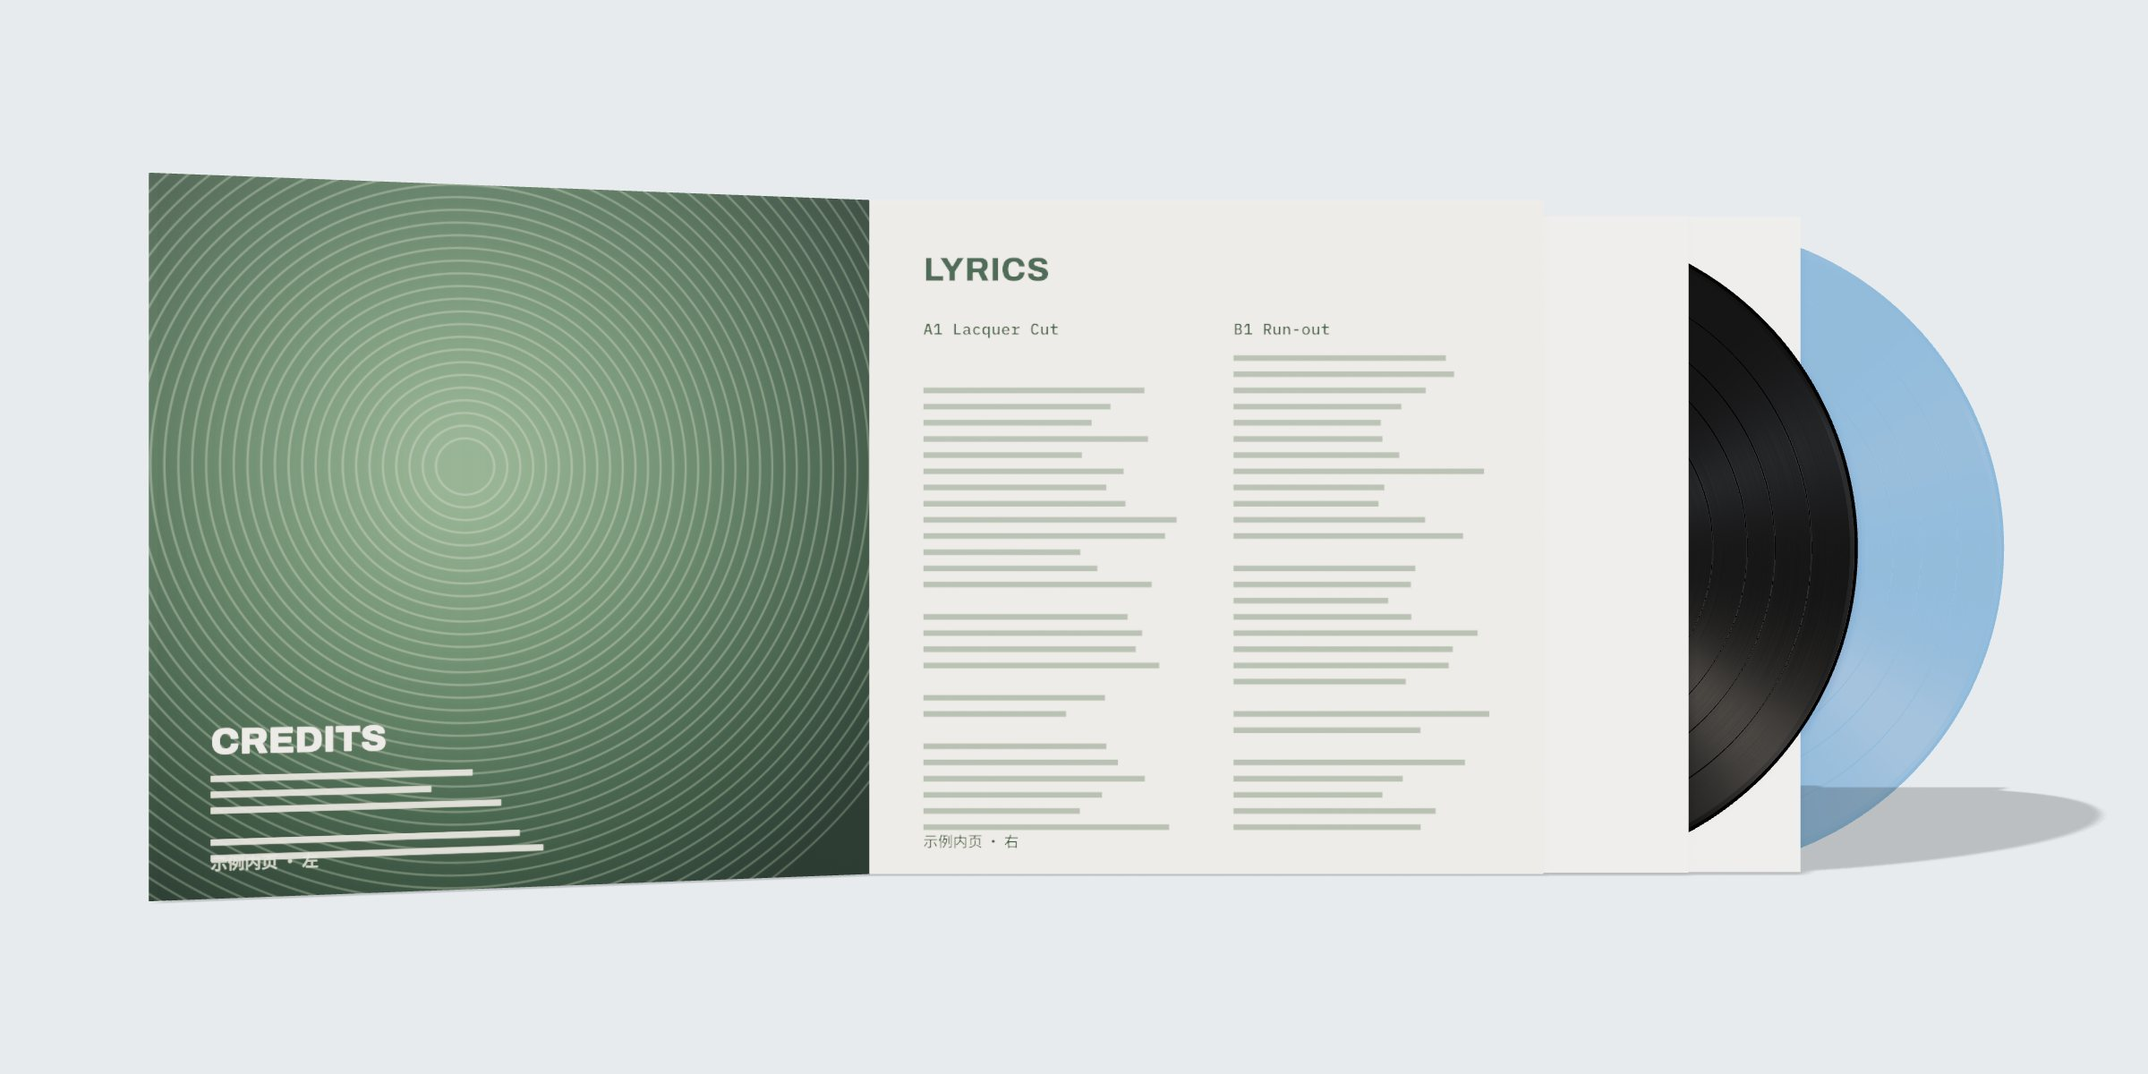
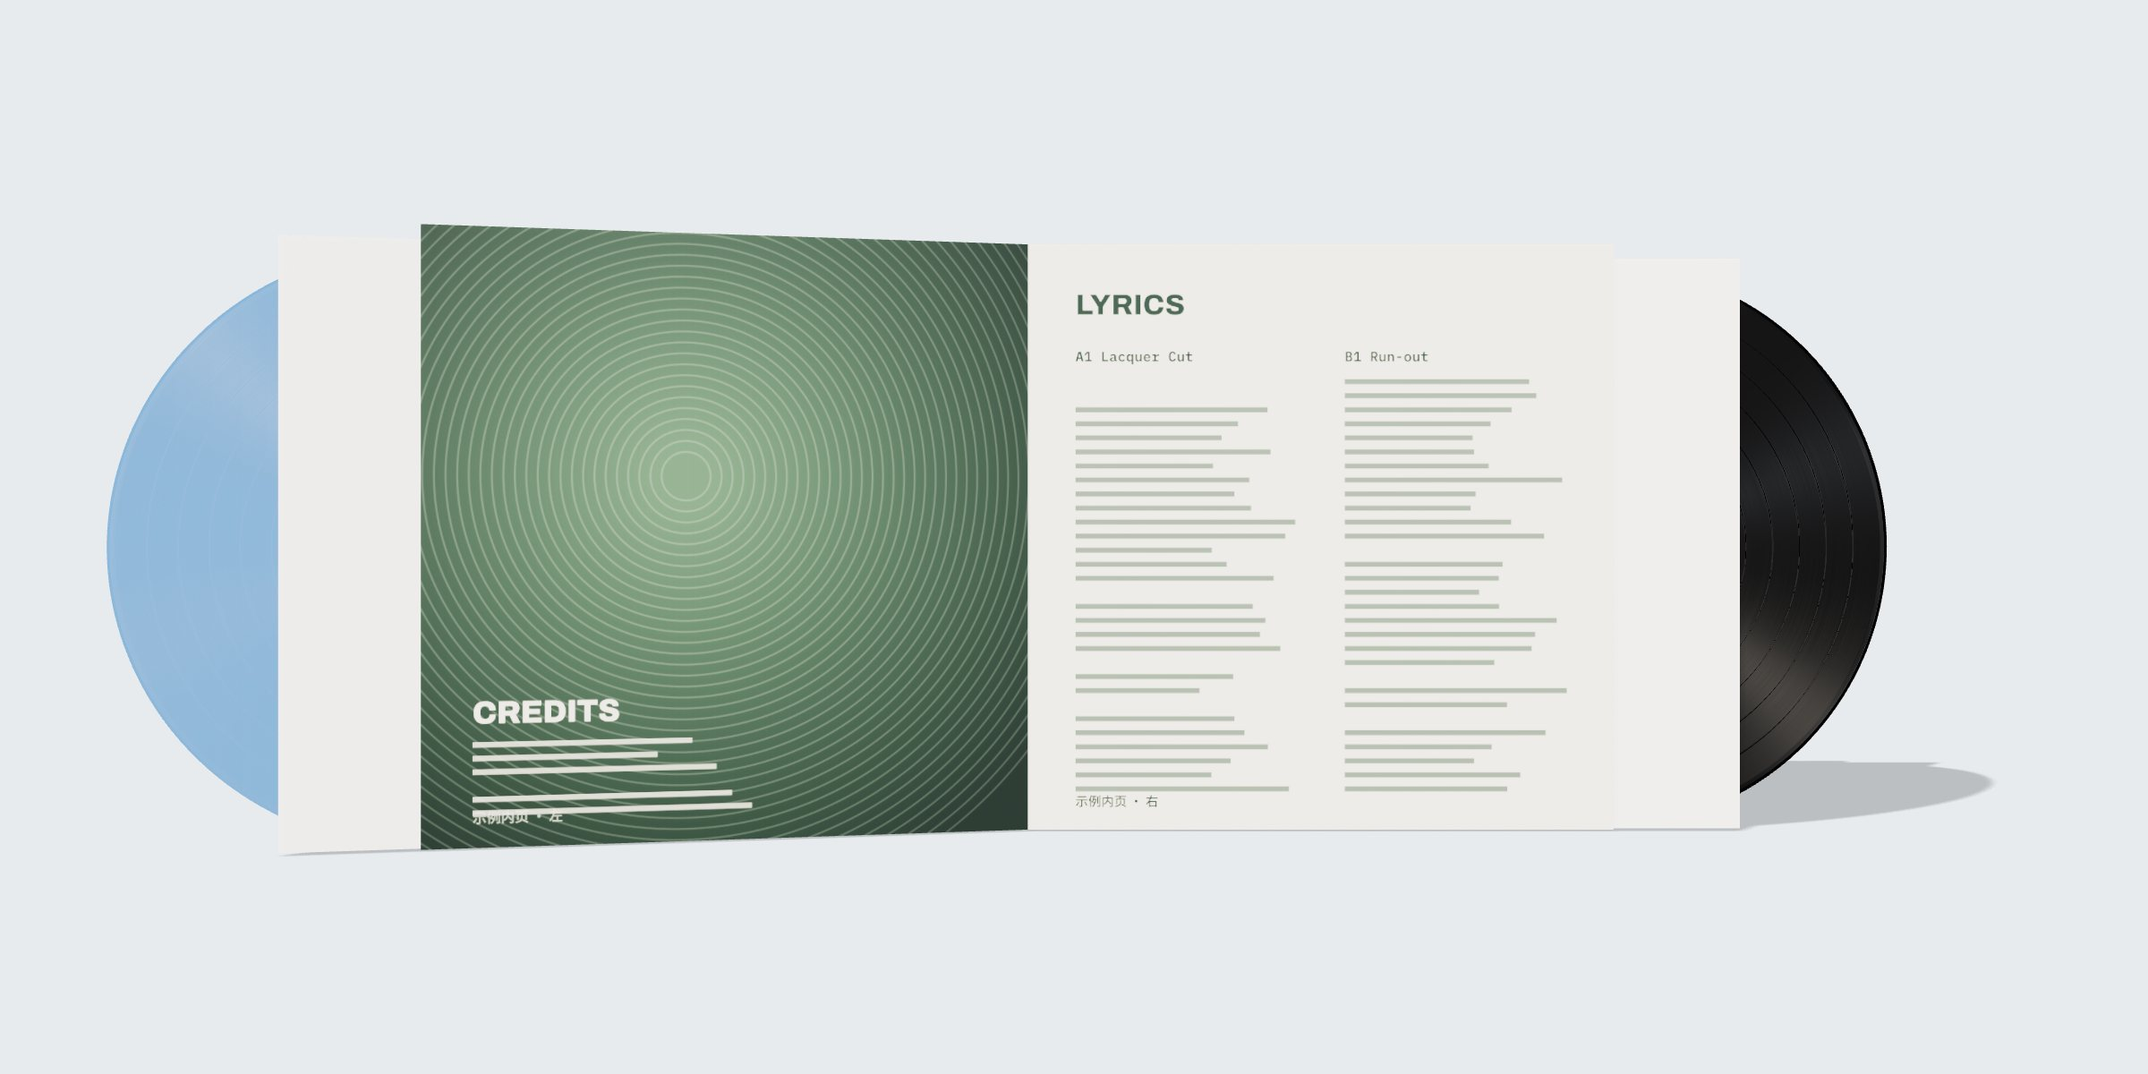
feat: give each gatefold panel its own record on 2LP
A gatefold 2LP now keeps one disc per panel: the front cover is a second
1LP-deep pocket hinged at the spine, and disc 2 rides in it, so it swings
with the cover and slides out to the left once the spread is open. Each
pocket is 1LP deep, the spine art runs across both hinge edges, and the
camera widens for disc 2 pulled from the open cover. Single jackets keep
both discs stacked in one pocket.

The 2LP example pulls disc 1 further so both discs show when closed, and
the README gatefold image is rebuilt with one disc on each side.

Closes #5

diff --git a/index.html b/index.html
@@ -317,7 +317,7 @@ input[type="color"]{width:34px;height:26px;padding:0;border:1px solid var(--line
             </div>
 
             <div class="disc" id="lp2-sub" hidden>
-              <h3>第 2 张 <small>C / D 面 · 放在第 1 张后面</small></h3>
+              <h3>第 2 张 <small id="lp2-where">C / D 面 · 放在第 1 张后面</small></h3>
               <div class="tiles two">
                 <label class="tile" data-slot="labelC"><span class="thumb"><span class="tag">示例</span></span><input id="up-labelC" type="file" accept="image/*" aria-label="上传 C 面标签">C 面标签</label>
                 <label class="tile" data-slot="labelD"><span class="thumb"><span class="tag">示例</span></span><input id="up-labelD" type="file" accept="image/*" aria-label="上传 D 面标签">D 面标签</label>
@@ -601,7 +601,11 @@ const state = {
   videoFormat:'mp4'   // panel only; the CLI takes the format from the output file name
 };
 const isGate=()=>state.jacketType==='gatefold';
-const frontZ=()=>isGate()?J.d/2+J.board:J.d/2;          // outer face of the front cover
+// A gatefold 2LP keeps one disc in each panel: the front cover is a second 1LP pocket, open at its free edge.
+const isSplit=()=>isGate()&&state.lpCount===2;
+const pocketDepth=()=>POCKET_D[isSplit()?1:state.lpCount];
+const coverDepth=()=>isSplit()?POCKET_D[1]:J.board;
+const frontZ=()=>isGate()?J.d/2+coverDepth():J.d/2;      // outer face of the front cover
 const jacketDepth=()=>frontZ()+J.d/2;
 const gateOpened=()=>isGate()&&state.gateOpen>.5;
 const specText=()=>`${isGate()?tr('双开','Gatefold'):tr('单开','Single')} · ${state.lpCount===2?'2LP':tr('单 LP','1LP')} · ${tr('书脊','Spine')} ${+(jacketDepth()*10).toFixed(1)} mm`;
@@ -1019,14 +1023,30 @@ function buildJacket(){
   const front=pocketFront=mesh(new THREE.BoxGeometry(w,h,t),[stock,stock,stock,stock,frontMat,stockInner]);front.position.z=d/2-t/2;
   const back=mesh(new THREE.BoxGeometry(w,h,t),[stock,stock,stock,stock,stockInner,backMat]);back.position.z=-d/2+t/2;
   const spine=mesh(new THREE.BoxGeometry(t,h,d-2*t),[stockInner,spineMat,stock,stock,stock,stock]);spine.position.x=-w/2+t/2;
+  // A split gatefold's spine art runs on across the cover's hinge edge: this half also covers the front
+  // board's edge (a hair proud of it) so the two halves meet without a seam.
+  if(isSplit()){const c=coverDepth();spine.geometry=spanU(new THREE.BoxGeometry(t,h,d-t),0,(d-t)/(d+c-2*t));spine.position.set(-w/2+t/2-.002,0,t/2)}
   jacket.add(front,back,spine);
   for(const s of[-1,1]){const flap=mesh(new THREE.BoxGeometry(w-t,t,d-2*t),stock);flap.position.set(t/2,s*(h/2-t/2),0);jacket.add(flap)}
-  coverPivot.position.z=d/2;
+  buildCover();
 }
+// Stretch the -x face's u (the spine side, back to front) over [u0, u1] of the texture.
+function spanU(geo,u0,u1){const uv=geo.attributes.uv;for(let i=4;i<8;i++)uv.setX(i,u0+uv.getX(i)*(u1-u0));return geo}
 // Gatefold: a separate front cover board hinged on the spine edge, laid over the pocket. Its inside is
 // the left page of the spread; the pocket's front face becomes the right page.
+// On a split 2LP the cover is a pocket of its own: closed at the hinge, open at the free edge, and disc 2
+// rides in it (pose() parents that sleeve set to the pivot), so it swings with the cover and slides out left.
 const coverPivot=new THREE.Group();coverPivot.position.set(-J.w/2,0,J.d/2);scene.add(coverPivot);
-const coverMesh=mesh(new THREE.BoxGeometry(J.w,J.h,J.board),[stock,stock,stock,stock,frontMat,innerLeftMat]);coverMesh.position.set(J.w/2,0,J.board/2);coverPivot.add(coverMesh);
+let coverFront;
+function buildCover(){
+  for(const c of[...coverPivot.children])if(c.isMesh){c.geometry.dispose();coverPivot.remove(c)}
+  const {w,h,board:t}=J,c=coverDepth();coverPivot.position.z=J.d/2;
+  if(!isSplit()){coverFront=mesh(new THREE.BoxGeometry(w,h,t),[stock,stock,stock,stock,frontMat,innerLeftMat]);coverFront.position.set(w/2,0,t/2);coverPivot.add(coverFront);return}
+  coverFront=mesh(new THREE.BoxGeometry(w,h,t),[stock,stock,stock,stock,frontMat,stockInner]);coverFront.position.set(w/2,0,c-t/2);
+  const inner=mesh(new THREE.BoxGeometry(w,h,t),[stock,stock,stock,stock,stockInner,innerLeftMat]);inner.position.set(w/2,0,t/2);
+  const hinge=mesh(spanU(new THREE.BoxGeometry(t,h,c-t),(J.d-t)/(J.d+c-2*t),1),[stockInner,spineMat,stock,stock,stock,stock]);hinge.position.set(t/2-.002,0,(c-t)/2);
+  coverPivot.add(coverFront,inner,hinge);
+  for(const s of[-1,1]){const flap=mesh(new THREE.BoxGeometry(w-t,t,c-2*t),stock);flap.position.set(w/2+t/2,s*(h/2-t/2),c/2);coverPivot.add(flap)}}
 buildJacket();
 
 // Insert: one double-sided printed sheet.
@@ -1166,7 +1186,7 @@ function numTexture(){
 function placeNumber(){
   const p=state.numPlace,eps=.004;numAnchor.removeFromParent();numAnchor.rotation.set(0,0,0);numAnchor.scale.setScalar(1);
   if(p==='back'){scene.add(numAnchor);numAnchor.position.set(0,0,-J.d/2-eps);numAnchor.rotation.y=Math.PI}
-  else if(p==='front'){if(isGate()){coverMesh.add(numAnchor);numAnchor.position.set(0,0,J.board/2+eps)}else{scene.add(numAnchor);numAnchor.position.set(0,0,J.d/2+eps)}}
+  else if(p==='front'){if(isGate()){coverFront.add(numAnchor);numAnchor.position.set(0,0,J.board/2+eps)}else{scene.add(numAnchor);numAnchor.position.set(0,0,J.d/2+eps)}}
   else if(p==='obi'){const {F,eps:oe}=obiLayout();obi.add(numAnchor);numAnchor.position.set(-J.w/2+F/2,0,frontZ()+oe+eps)}
   else{sticker.add(numAnchor);const k=1/state.stickerSize;numAnchor.scale.set(k,k,1);numAnchor.position.set(0,0,.03)}
   numAnchor.visible=state.numOn;
@@ -1177,23 +1197,28 @@ function pose(){
   const gate=isGate(),opened=gateOpened();
   pocketFront.material[4]=gate?innerRightMat:frontMat;
   coverPivot.visible=gate;coverPivot.rotation.y=-THREE.MathUtils.degToRad(state.gateOpen);
-  // 1LP rides at the pocket centre; 2LP stacks two sleeve sets front/back, insert behind both.
-  const two=state.lpCount===2,zc=two?.1:0;
+  // 1LP rides at the pocket centre; 2LP stacks two sleeve sets front/back, insert behind both, unless the
+  // gatefold splits them: then each pocket holds one set and disc 2 sits in the cover, turned to face the
+  // spread when it is open.
+  const two=state.lpCount===2,split=isSplit(),zc=two&&!split?.1:0;
   // Anything still partly inside its container rests on that container's floor; only once it has fully
   // cleared the mouth does it settle onto the ground. This keeps a disc from poking out under its sleeve.
   const jacketFloor=-(J.h/2-J.board),settle=clear=>THREE.MathUtils.smoothstep(clear,0,1.5);
-  const placeSet=(sl,rec,sX,rX,z,on)=>{
+  // host is the container's frame and ox the pocket centre in it; x runs from the pocket centre to its mouth.
+  const placeSet=(sl,rec,sX,rX,z,on,host=scene,ox=0,flip=0)=>{
+    for(const o of[sl,rec])if(o.parent!==host)host.add(o);
     const S=SLV.s,x=sX*24,sy=THREE.MathUtils.lerp(jacketFloor+S/2,GROUND_Y+S/2,settle(x-S/2-J.w/2));
-    sl.visible=on&&state.sleeveOn;sl.position.set(x,sy,z);rec.visible=on;
+    sl.visible=on&&state.sleeveOn;sl.position.set(ox+x,sy,z);sl.rotation.y=flip;rec.visible=on;
     const rx=x+rX*27,floor=state.sleeveOn?sy-S/2+.04:jacketFloor,mouth=state.sleeveOn?x+S/2:J.w/2;
-    rec.position.set(rx,THREE.MathUtils.lerp(floor+LP.r,GROUND_Y+LP.r,settle(rx-LP.r-mouth)),z);
-    rec.rotation.z=THREE.MathUtils.degToRad(state.recordRot)};
+    rec.position.set(ox+rx,THREE.MathUtils.lerp(floor+LP.r,GROUND_Y+LP.r,settle(rx-LP.r-mouth)),z);
+    rec.rotation.set(0,flip,THREE.MathUtils.degToRad(state.recordRot))};
   placeSet(sleeve,record,state.sleeveX,state.recordX,zc,true);
-  placeSet(sleeve2,record2,state.sleeve2X,state.record2X,-zc,two);
+  if(split)placeSet(sleeve2,record2,state.sleeve2X,state.record2X,coverDepth()/2,true,coverPivot,J.w/2,Math.PI);
+  else placeSet(sleeve2,record2,state.sleeve2X,state.record2X,-zc,two);
   const ix=state.insertX*25;
-  insert.visible=state.insertOn;insert.position.set(ix,THREE.MathUtils.lerp(jacketFloor+INS.s/2,GROUND_Y+INS.s/2,settle(ix-INS.s/2-J.w/2)),two?-.23:INS.z);
+  insert.visible=state.insertOn;insert.position.set(ix,THREE.MathUtils.lerp(jacketFloor+INS.s/2,GROUND_Y+INS.s/2,settle(ix-INS.s/2-J.w/2)),two&&!split?-.23:INS.z);
   const mouthOpen=state.sleeveX>.005||state.recordX>.005||(state.insertOn&&state.insertX>.005)||(two&&(state.sleeve2X>.005||state.record2X>.005));
-  const wrapZ=gate?J.board/2:0,wrapFront=wrapZ+(jacketDepth()+WRAP.extra)/2;
+  const wrapZ=gate?coverDepth()/2:0,wrapFront=wrapZ+(jacketDepth()+WRAP.extra)/2;
   wrap.visible=state.wrapOn&&!opened;wrap.position.z=wrapZ;wrapMouthMat.visible=!mouthOpen;
   wrapStrength.value=state.gloss;wrapMat.normalScale.setScalar(.35*state.wrinkle);wrapMouthMat.normalScale.setScalar(.35*state.wrinkle);
   obi.visible=state.obiOn&&!opened;
@@ -1203,9 +1228,12 @@ function pose(){
   placeNumber();
 }
 function applyLpCount(){
-  J.d=POCKET_D[state.lpCount];$('lp2-sub').hidden=state.lpCount!==2;buildJacket();applyJacketType();
+  $('lp2-sub').hidden=state.lpCount!==2;applyJacketType();
 }
+const lp2Where=()=>{$('lp2-where').textContent=isSplit()?tr('C / D 面 · 装在左扇','Sides C / D · in the left panel'):tr('C / D 面 · 放在第 1 张后面','Sides C / D · behind disc 1')};
 function applyJacketType(){
+  J.d=pocketDepth();buildJacket();
+  lp2Where();
   const gate=isGate();$('gate-sub').hidden=!gate;$('jacket-spec').textContent=specText();
   buildWrap(state.wrinkle);buildObi();pose();if(!userMoved)setView(state.view);
 }
@@ -1213,9 +1241,13 @@ function applyJacketType(){
 // ---------- Views ----------
 // Each view frames a box of the given size (scene units) so it fits any stage aspect ratio.
 const VIEWS={quarter:{t:[9,-.5,0],dir:[-.36,.1,1],fit:[62,35]},front:{t:[9,0,0],dir:[0,0,1],fit:[64,35]},side:{t:[5,-1,0],dir:[-.86,.12,.5],fit:[56,36]}};
+// How far the cover's contents reach from the hinge: the board, or disc 2 and its sleeve pulled past it.
+function coverReach(){if(!isSplit())return J.w;const x=state.sleeve2X*24,rx=x+state.record2X*27;
+  return Math.max(J.w,J.w/2+Math.max(state.sleeveOn?x+SLV.s/2:0,rx+LP.r))}
 function setView(name){userMoved=false;const v=VIEWS[name],half=Math.tan(THREE.MathUtils.degToRad(camera.fov/2));
-  // An opening gatefold cover reaches left of the jacket; widen the frame by that reach.
-  const reach=isGate()?Math.max(0,-J.w*Math.cos(THREE.MathUtils.degToRad(state.gateOpen))):0,t=[v.t[0]-reach/2,v.t[1],v.t[2]];
+  // An opening gatefold cover reaches left of the jacket, and on a split 2LP so does disc 2 pulled from it;
+  // widen the frame by that reach.
+  const reach=isGate()?Math.max(0,-coverReach()*Math.cos(THREE.MathUtils.degToRad(state.gateOpen))):0,t=[v.t[0]-reach/2,v.t[1],v.t[2]];
   const dist=Math.max(v.fit[1]/(2*half),(v.fit[0]+reach)/(2*half*camera.aspect)),dir=new THREE.Vector3(...v.dir).normalize().multiplyScalar(dist);
   controls.target.set(...t);camera.position.set(t[0]+dir.x,t[1]+dir.y,t[2]+dir.z);controls.update();state.view=name;
   for(const b of document.querySelectorAll('[data-view]'))b.setAttribute('aria-pressed',b.dataset.view===name);
@@ -1830,7 +1862,7 @@ const SPEC_FIELDS=[
   enumF('jacket.type','jacketType',['single','gatefold'],'封套类型：single 单开，gatefold 双开'),
   enumF('jacket.finish','finish',['matte','satin','gloss'],'纸张工艺：matte 哑光，satin 缎面，gloss 亮面'),
   numF('jacket.gateOpen','gateOpen',0,180,1,'双开封面打开角度（度）。大于 0 时塑封、贴纸、Obi 视为已拆除，不显示'),
-  numF('records.count','lpCount',1,2,1,'唱片数量：1 为单 LP，2 为 2LP（封套自动加厚）',true),
+  numF('records.count','lpCount',1,2,1,'唱片数量：1 为单 LP，2 为 2LP。单开时两张叠在同一个口袋里（封套自动加厚）；双开时两扇各装一张，第 2 张在左扇（封面）里，打开后向左抽出',true),
   numF('records.labelRotation','recordRot',-180,180,1,'唱片标签旋转角度（度），两张共用'),
   boolF('records.sleeve.on','sleeveOn','是否显示内袋'),
   colorF('records.sleeve.color','sleeveColor','内袋纸色，未提供 images.sleeve 时生效'),
@@ -1838,7 +1870,7 @@ const SPEC_FIELDS=[
     enumF(`records.disc${i}.vinyl`,`vinyl${s}`,['black','color'],`第 ${i} 张胶色：black 纯黑胶（不叠纹路、不透明）；color 彩胶，用 color 和 transparency，可再加 pattern。旧值 clear 仍可用，等于 color + transparency 38${note}`),
     numF(`records.disc${i}.transparency`,`vinyl${s}Clear`,0,80,.01,`第 ${i} 张彩胶的透明度（%），0 为不透明。有纹路时只有底色变透明，纹路本身不透明；black 不使用${note}`),
     colorF(`records.disc${i}.color`,`vinyl${s}Color`,`第 ${i} 张彩胶颜色；有纹路时是底色（分色类的第一块）${note}`),
-    numF(`records.disc${i}.sleeveOut`,`sleeve${s}X`,0,100,.01,`第 ${i} 张内袋连同唱片从封套开口抽出的比例（%）${note}`),
+    numF(`records.disc${i}.sleeveOut`,`sleeve${s}X`,0,100,.01,`第 ${i} 张内袋连同唱片从封套开口抽出的比例（%）${note}${i===2?'。双开时从左扇的开口抽出：合上时朝右，打开后朝左':''}`),
     numF(`records.disc${i}.recordOut`,`record${s}X`,0,100,.01,`第 ${i} 张唱片再从内袋里抽出的比例（%）${note}`),
     numF(`records.disc${i}.tracks`,`tracks${s}`,1,20,1,`第 ${i} 张每面的音轨数，盘面按等宽分成这么多圈，相邻音轨之间有一道亮环；两面相同${note}`,true),
     enumF(`records.disc${i}.pattern.id`,`pattern${s}`,['none',...MASKS.map(m=>m.id)],`第 ${i} 张彩胶纹路，none 或不写为纯色，只在 vinyl=color 时生效。按配色方式分三类——分色（底色是第一块，pattern.color 第二块，split-tri 再用 pattern.color2 第三块；split-quad 对角同色）：${patternIds('regions')}；主次（底色 + pattern.color，其余色层自动推算）：${patternIds('accent')}；同色系（只用底色，纹路是它的深浅变化，pattern.contrast 调反差）：${patternIds('tonal')}。底色是 color；写了 color 而没写 pattern.color / pattern.color2 时，纹路色按底色推算；color 也没写时，用这款纹路的默认配色${note}`),
@@ -2036,7 +2068,6 @@ async function applySpec(spec){
 
 // Rebuild every derived object from state; used after a spec lands.
 function refreshAll(){
-  J.d=POCKET_D[state.lpCount];buildJacket();
   applyFinish();applyVinyl();sleeveMat.color.set(tex.sleeve?'#ffffff':state.sleeveColor);
   buildSticker();stickerTexture();numTexture();
   applyJacketType();applyBg();syncUI();
@@ -2073,7 +2104,9 @@ function outAndBack(u){const ease=(a,b)=>THREE.MathUtils.smoothstep(u,a,b);retur
 // Where a pull ends: the scene's own sleeve / record / insert positions, or a typical pull when all are in.
 function pullTargets(){
   const two=state.lpCount===2,t={sleeveX:state.sleeveX,recordX:state.recordX,...(state.insertOn&&{insertX:state.insertX}),...(two&&{sleeve2X:state.sleeve2X,record2X:state.record2X})};
-  if(Object.values(t).every(v=>v<.05))Object.assign(t,state.sleeveOn?{sleeveX:.5,recordX:.45,...(two&&{sleeve2X:.75,record2X:.3})}:{recordX:.6,...(two&&{record2X:.9})});
+  // Stacked discs stagger so both show; split ones leave by their own pockets and can pull alike.
+  const split=isSplit();
+  if(Object.values(t).every(v=>v<.05))Object.assign(t,state.sleeveOn?{sleeveX:.5,recordX:.45,...(two&&(split?{sleeve2X:.5,record2X:.45}:{sleeve2X:.75,record2X:.3}))}:{recordX:.6,...(two&&{record2X:split?.6:.9})});
   return t}
 // One frame of the clip at loop phase u in [0, 1): turn is the product's turn (radians about the vertical
 // axis); set holds state keys posed for this frame only. Stage preview and video export both draw from it.
@@ -2279,7 +2312,7 @@ function redrawSamples(){
 }
 const fontsSettled=(document.fonts?.ready??Promise.resolve()).then(redrawSamples);
 $('lang-btn').addEventListener('click',()=>{lang=lang==='en'?'zh':'en';try{localStorage.setItem('gm-lang',lang)}catch(e){}
-  translateStatic();$('jacket-spec').textContent=specText();if(!userFontFace)$('num-font-custom').textContent=tr('自定义（未上传）','Custom (none uploaded)');
+  translateStatic();$('jacket-spec').textContent=specText();lp2Where();if(!userFontFace)$('num-font-custom').textContent=tr('自定义（未上传）','Custom (none uploaded)');
   else $('num-font-custom').textContent=$('num-font-custom').textContent.replace(/^(自定义|Custom) · /,tr('自定义 · ','Custom · '));redrawSamples();
   for(const s of['','2'])buildPicker(s);syncPatterns();
   for(const t of document.querySelectorAll('.tag.lib'))t.textContent=tr('曲库','Library');if($('lib-view').innerHTML)libView?.()});

diff --git a/AGENTS.md b/AGENTS.md
@@ -43,7 +43,7 @@ cd cli && npm install
 |---|---|
 | 换封面、背面、书脊 | `images.front` / `images.back` / `images.spine` |
 | 双开及内页 | `jacket.type: "gatefold"`，`images.innerLeft` / `innerRight`，`jacket.gateOpen` 为 0–180 |
-| 2LP | `records.count: 2`，`records.disc2.*`，标签用 `images.labelC` / `labelD`。第 2 张默认沿用第 1 张的胶色和纹路（`records.disc2.sameAsDisc1: true`）；写了 `disc2` 的 `vinyl` / `color` / `transparency` / `pattern` 就视为分别设置 |
+| 2LP | `records.count: 2`，`records.disc2.*`，标签用 `images.labelC` / `labelD`。单开时两张叠在同一个口袋；双开时左右两扇各装一张，第 2 张在左扇（封面）里，打开后向左抽出。第 2 张默认沿用第 1 张的胶色和纹路（`records.disc2.sameAsDisc1: true`）；写了 `disc2` 的 `vinyl` / `color` / `transparency` / `pattern` 就视为分别设置 |
 | 胶色 | `records.discN.vinyl`：`black` 纯黑胶（不叠纹路、不透明），`color` 彩胶：`color` 为颜色，`transparency` 为透明度（0–80%）。旧值 `clear` 等于 `color` + `transparency: 38` |
 | 彩胶纹路 | `records.discN.pattern.id`（可选值和分类见 `schema`）。底色是 `records.discN.color`。分色类（`split-*`）：`pattern.color` 为第二块，`split-tri` 用 `pattern.color2` 为第三块；主次类：`pattern.color` 为纹路色，其余色层自动推算；同色系：只用底色，`pattern.contrast` 调反差。只在 `vinyl: color` 时生效。`rotation` 旋转纹路；有 `transparency` 时只有底色透明，纹路不透明。`pattern.fromCover: true` 从 `images.front` 自动取底色和纹路色，写明的颜色优先 |
 | 音轨数 | `records.discN.tracks`：每面音轨数（1–20，默认 6），盘面按等宽分圈，两面相同 |
@@ -59,6 +59,7 @@ cd cli && npm install
 ## 容易踩的点
 
 - `jacket.gateOpen` 大于 0 时，塑封、贴纸和 Obi 视为已拆除，不会出现在图里。
+- 双开 2LP 合上时，第 2 张在前面那扇里，会挡住第 1 张：要两张都露出来，让第 1 张抽得比第 2 张多。打开到 90° 左右时，从左扇抽出的唱片会朝镜头转过来，可能出画。
 - 插页在内袋后面。`insert.out` 要比内袋的抽出比例大，才看得到插页。
 - 抽得很多时，唱片可能跑出画面。可以减小 `recordOut`，或者把 `camera.zoom` 调到 1 以下。
 - 只改 `number.place` 时，编号的位置、字高、角度会回到该位置的默认值；只改 `number.finish` 时，颜色会回到该工艺的默认色。要固定这些值，就同时写上对应字段。
